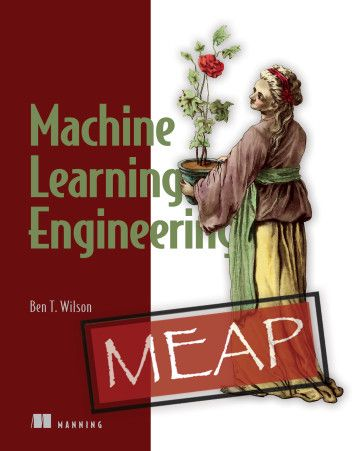
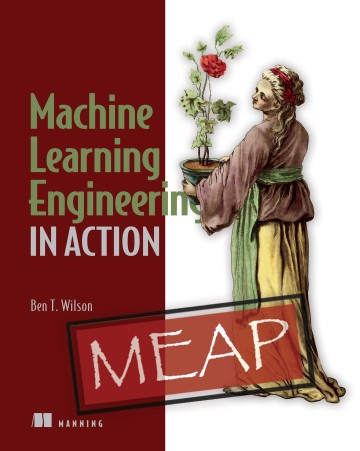
ml engineering in action book

Changed region(s): [[0.0611, 0.0, 0.9778, 1.0]]

diff --git a/_books/20210301-ml-engineering.md b/_books/20210301-ml-engineering.md
@@ -1,6 +1,6 @@
 ---
-title: "Machine Learning Engineering"
-description: "Book of the Week. Machine Learning Engineering by Ben Wilson"
+title: "Machine Learning Engineering in Action"
+description: "Book of the Week. Machine Learning Engineering in Action by Ben Wilson"
 cover: "images/books/20210301-ml-engineering/cover.jpg"
 image: "images/books/20210301-ml-engineering/preview.jpg"
 start: 2021-03-01 00:00:00
@@ -8,12 +8,12 @@ end: 2021-03-05 22:59:59
 authors: [benwilson]
 links: 
   - text: Book's page on Manning
-    link: https://www.manning.com/books/machine-learning-engineering
+    link: https://www.manning.com/books/machine-learning-engineering-in-action
   - text: Book's GitHub repository
     link: https://github.com/BenWilson2/ML-Engineering
 ---
 
-Machine Learning Engineering is a roadmap to delivering successful machine learning projects.
+Machine Learning Engineering in Action is a roadmap to delivering successful machine learning projects.
 It teaches you to adopt an efficient, sustainable, and goal-driven approach that author
 Ben Wilson has developed over a decade of data science experience. Every method in this book
 has been used to solve a breakdown in a real-world project, and is illustrated with production-ready
